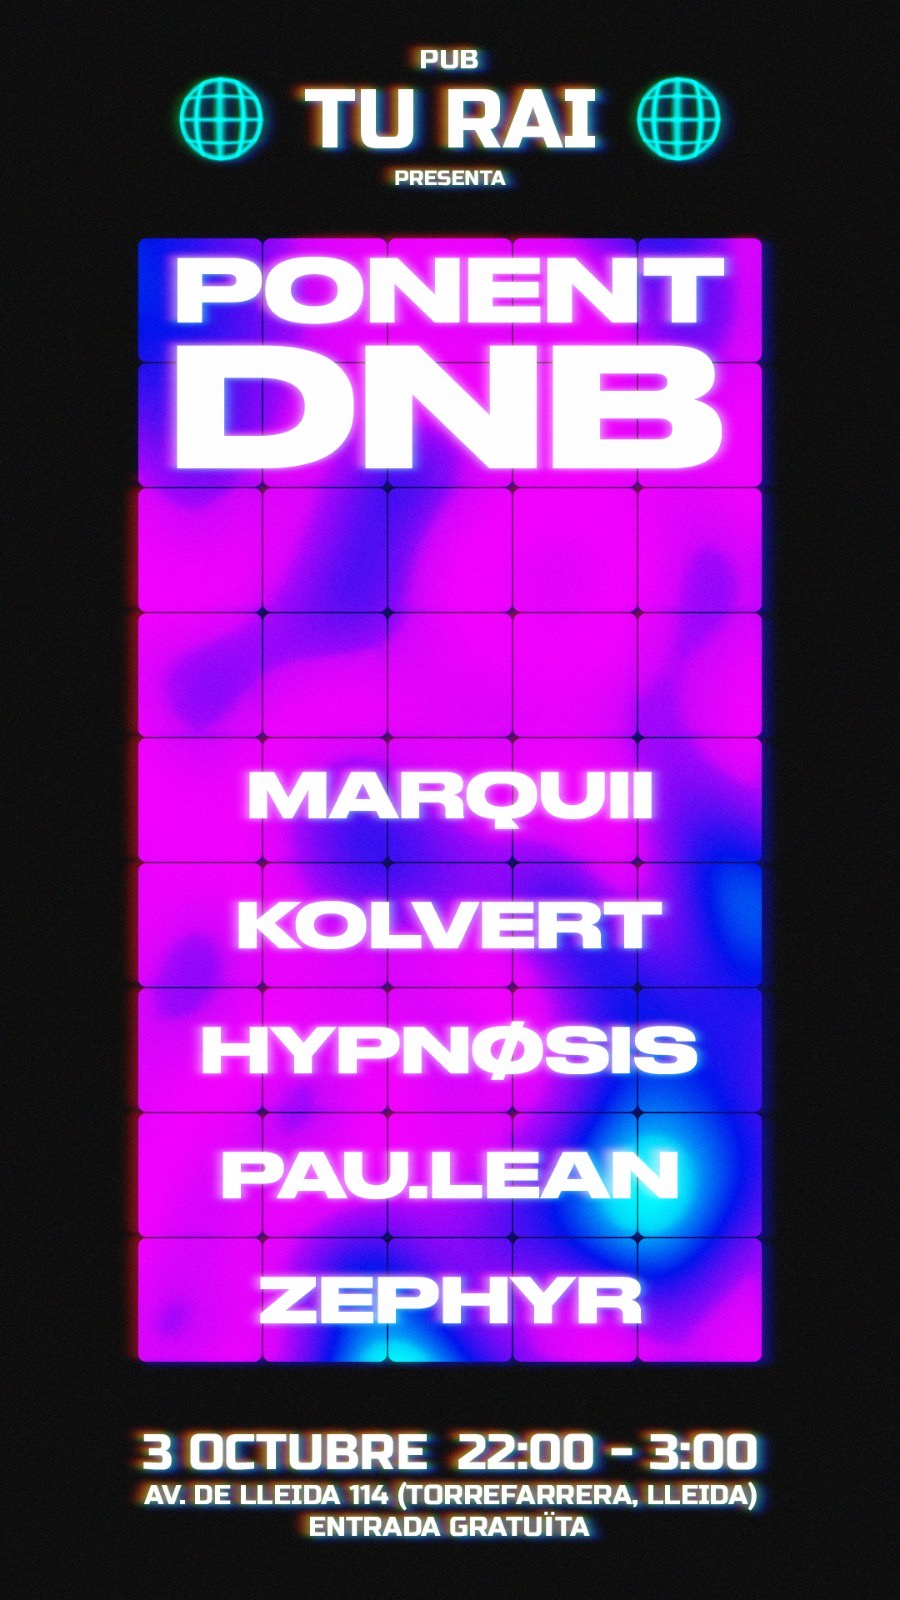
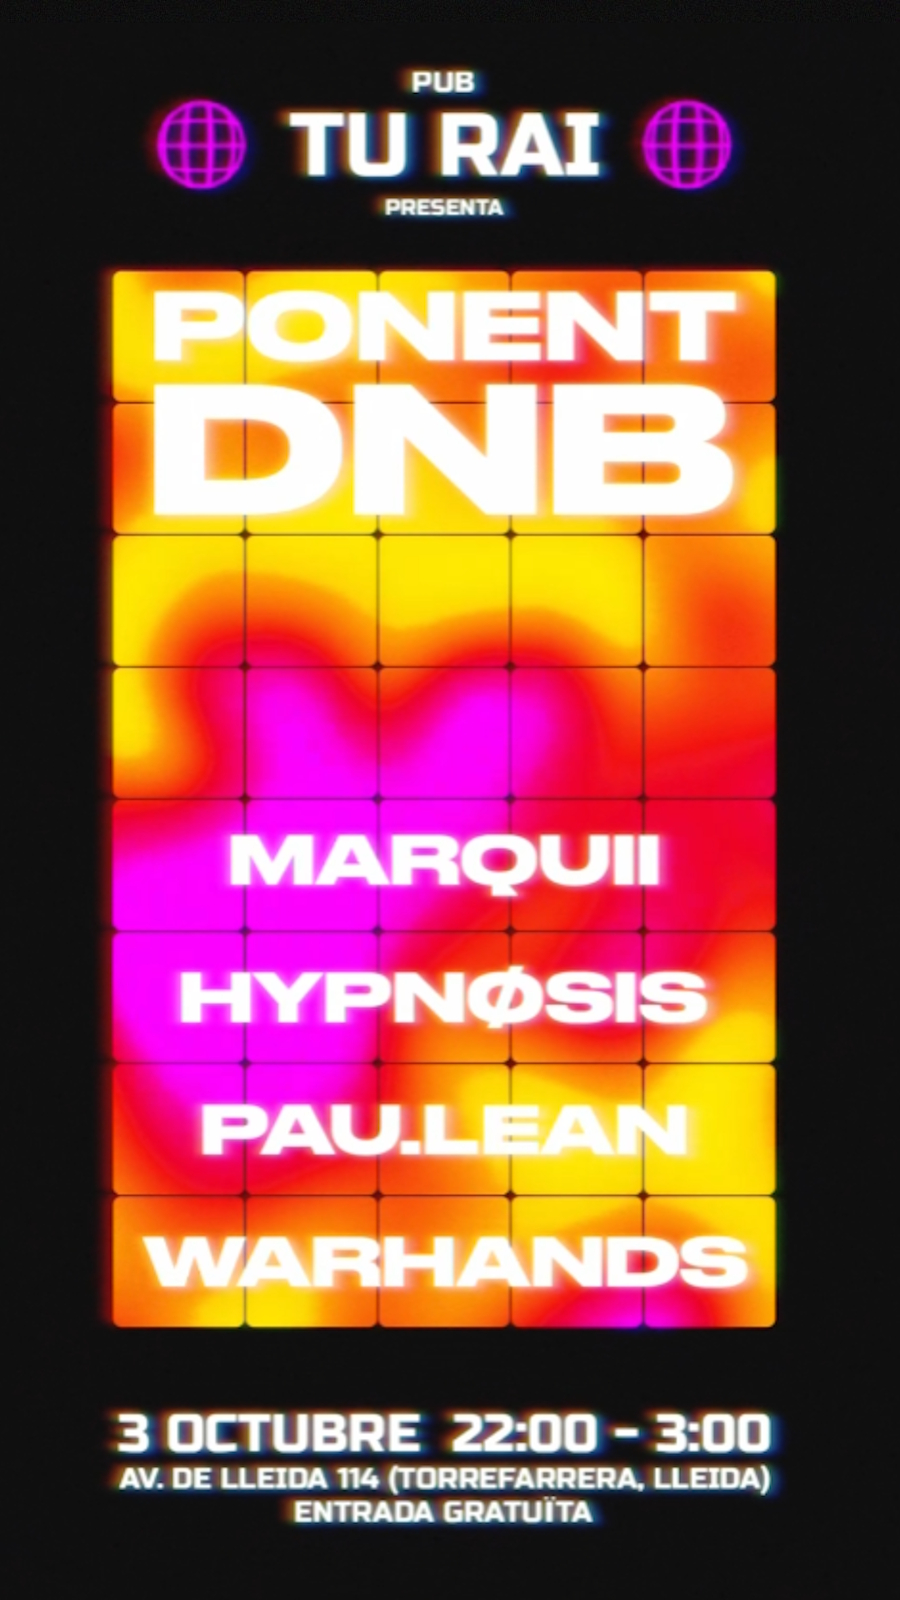
canvis lineup turai

diff --git a/_agenda/turai0310.md b/_agenda/turai0310.md
@@ -12,8 +12,6 @@ lineup:
     link: https://instagram.com/valentinohypnosis.wav
   - name: Pau.lean
     link: https://instagram.com/paulean66.music
-  - name: Zephyr
-    link: https://instagram.com/z3phyrdnb
-  - name: Kolvert
-    link: https://instagram.com/klv1603
+  - name: Warhands
+    link: https://instagram.com/warhandsmusic
 ---
